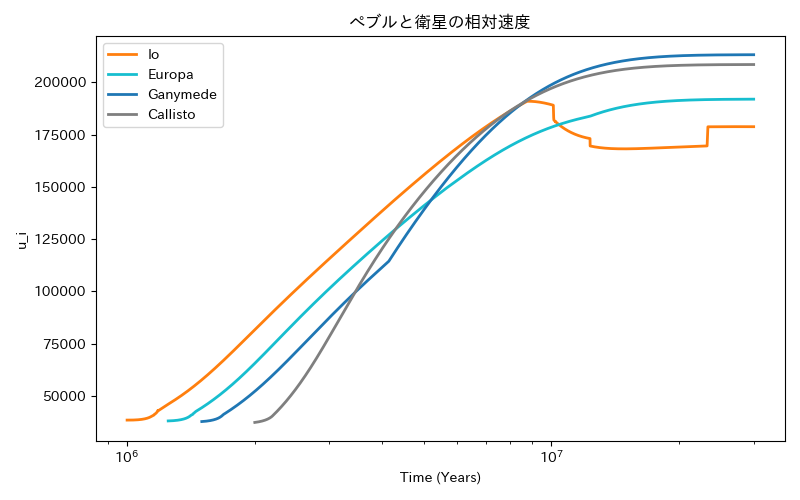
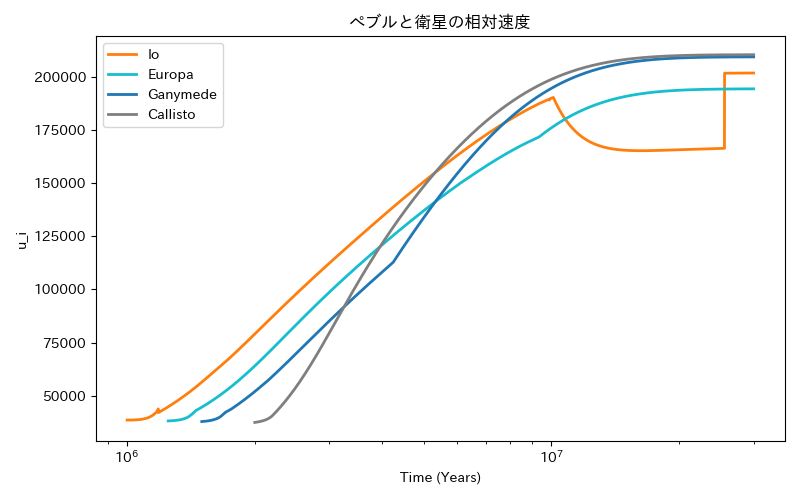
r_ggの値を3倍（5.0e-7）にした

diff --git a/gallilean_central_flax.py b/gallilean_central_flax.py
@@ -9,7 +9,7 @@ plt.rcParams['font.family'] = 'IPAexGothic'
 # --- 物理定数 ---
 G = 6.6743e-8             # 万有引力定数 (cm^3/g/s^2)
 sigma_sb = 5.67e-5         # ステファン・ボルツマン定数 (W/cm^2/K^4)
-r_gg = 3.4e-7              # 粒子とガスの面密度比
+r_gg = 5.0e-7              # 粒子とガスの面密度比
 k_B = 1.380649e-16         # ボルツマン定数 (erg/K)
 m_g = 3.9e-24              # ガスの平均分子質量 (g)
 alpha = 1.0e-4              # 乱流の強さ
